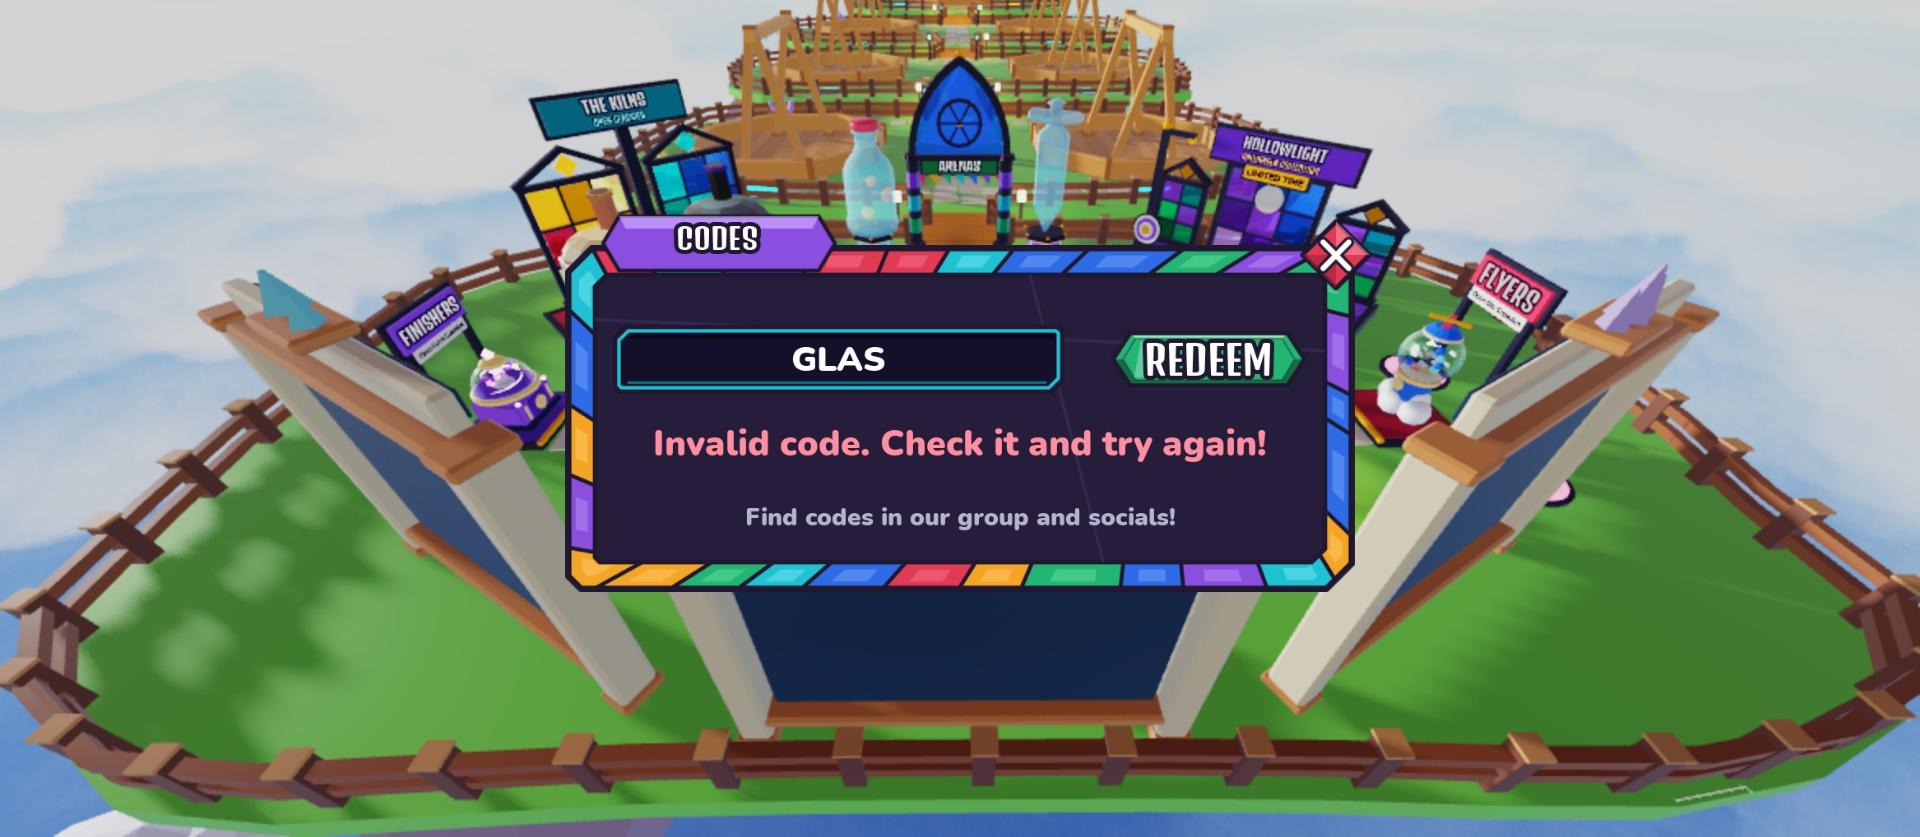
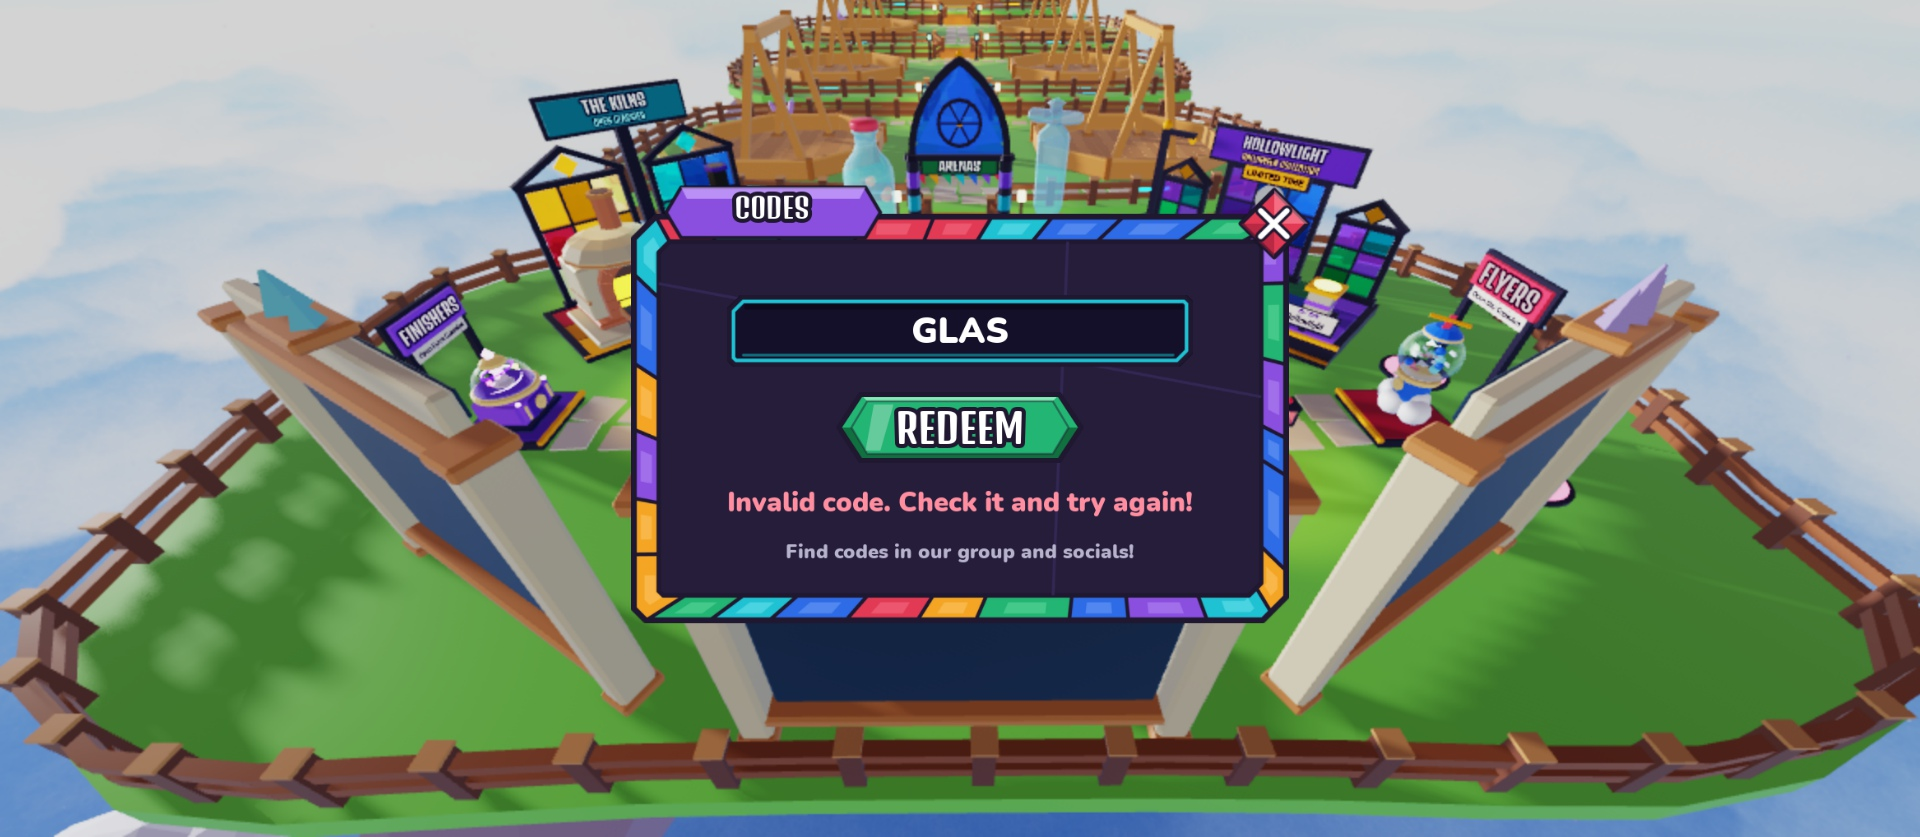
CodesScreen: stack the REDEEM button under the code field (taller 900x560 window)

Changed region(s): [[0.2812, 0.2174, 0.7188, 0.7455], [0.875, 0.9319, 0.9062, 0.963]]

diff --git a/docs/ui/screens/CodesScreen.md b/docs/ui/screens/CodesScreen.md
@@ -1,7 +1,7 @@
 # CodesScreen (top bar → Rewards gift → Codes)
 
-Design only (Oct 19): no controller, no remotes. A deliberately **small** Stained Glass window, about 38% of the screen
-width (min 480×211, max 760×334 px), short and wide (aspect 1000:440). Rebuild with `tools/studio/build_codes_screen.luau`
+Design only (Oct 19): no controller, no remotes. A deliberately **small** Stained Glass window, about 30% of the screen
+width (min 400×249, max 640×398 px), aspect 900:560. The REDEEM button sits **under** the code field (stacked, not side by side). Rebuild with `tools/studio/build_codes_screen.luau`
 (Studio Edit, lock held; copies the old screen to `ServerStorage.UIBackup_Topbar`, then replaces `StarterGui.CodesScreen`).
 
 | Default | Success | Invalid + focused |
@@ -10,7 +10,7 @@ width (min 480×211, max 760×334 px), short and wide (aspect 1000:440). Rebuild
 
 ## Element map
 
-`CodesScreen` (ScreenGui, `Enabled = false`, `TopbarScreen = true`) → `Panel` (aspect 1000:440, Scale only)
+`CodesScreen` (ScreenGui, `Enabled = false`, `TopbarScreen = true`) → `Panel` (aspect 900:560, Scale only)
 
 | Name | Class | What it will do |
 |---|---|---|
@@ -22,7 +22,7 @@ width (min 480×211, max 760×334 px), short and wide (aspect 1000:440). Rebuild
 | `InputField.Artwork` | ImageLabel | dark inset glass field (`field_inset`) |
 | `InputField.FocusOutline` | ImageLabel | aqua ring (`field_focus`), hidden; show it on `CodeInput.Focused`, hide on `FocusLost` |
 | `InputField.CodeInput` | **TextBox** | the code. `PlaceholderText = "Enter code…"`, `ClearTextOnFocus = false`, one line, centred, Nunito Heavy white, `TextScaled` with a max of 34. Attribute `TextFit = false` so TextFit never touches it. Read `.Text` on `FocusLost` or on redeem |
-| `Content.RedeemButton` | TextButton | green gem "REDEEM" (`button/gem_emerald`). Has the usual `Artwork`, `Label` (Denk One), `InteractionScale` parts |
+| `Content.RedeemButton` | TextButton | (under the field) green gem "REDEEM" (`button/gem_emerald`). Has the usual `Artwork`, `Label` (Denk One), `InteractionScale` parts |
 | `Content.Status` | TextLabel | one-line message slot. **Empty and `Visible = false`** by default |
 | `Content.Hint` | TextLabel | "Find codes in our group and socials!" (generic, no links) |
 
@@ -46,7 +46,7 @@ in `png`, uploads in `roblox_assets.json`. Decals were resolved to image ids wit
 
 | Key | Decal | Image id |
 |---|---|---|
-| `screens/codes/window_codes` (1000×440, 2×) | 96546351881397 | 130615538105152 |
+| `screens/codes/window_codes` (900×560, 2×) | 90013473722478 | 130439492899536 |
 | `screens/codes/field_inset` (520×80, 2×) | 84567967482821 | 98997316553457 |
 | `screens/codes/field_focus` | 133279075090658 | 99561576715408 |
 
@@ -55,6 +55,6 @@ Reused: `panel/title_amethyst`, `button/gem_emerald`, `button/close_diamond` + `
 ## Notes / not done
 
 - All positions and sizes are Scale; the Panel has a `UISizeConstraint` so it stays readable on small screens. The phone and
-  tablet scaling pass is still to do; at the 480 px minimum the REDEEM gem is about 130×37 px.
+  tablet scaling pass is still to do; at the 400 px minimum the field is about 284×44 px and the REDEEM gem about 151×43 px.
 - The window and field use Fit with their own aspect ratios (no 9-slice), so they need no `StainedAssetSpecs` entry.
 - The creator saves the place in Studio.

diff --git a/docs/logs/DEVLOG.md b/docs/logs/DEVLOG.md
@@ -17,6 +17,7 @@ Balance sim (if balance changed):
 ## 2026-10-19 — Claude — CodesScreen design (top bar menus)
 Done:
 - Designed `StarterGui.CodesScreen`: a small, short, wide Stained Glass window (CODES amethyst banner, Close diamond, dark inset `CodeInput` TextBox with an aqua `FocusOutline`, green `RedeemButton`, hidden `Status` line, hint line). Rebuild: `tools/studio/build_codes_screen.luau`.
+- Creator feedback: stacked the layout (code field on top, REDEEM gem centred under it, Status and hint below) in a taller 900×560 window (new `window_codes` art, ~30% of screen width); recaptured the three states.
 - New art `tools/ui/codes_art.mjs` → `assets/ui/screens/codes` (window and two field images), uploaded to group 11116787; keys in `UIAssets` (`screens/codes/*`). Captures and element map: `docs/ui/screens/CodesScreen.md`.
 Next:
 - Wire it to a redeem remote later (controller reads `CodeInput.Text`, writes `Status`); phone/tablet scaling pass.
